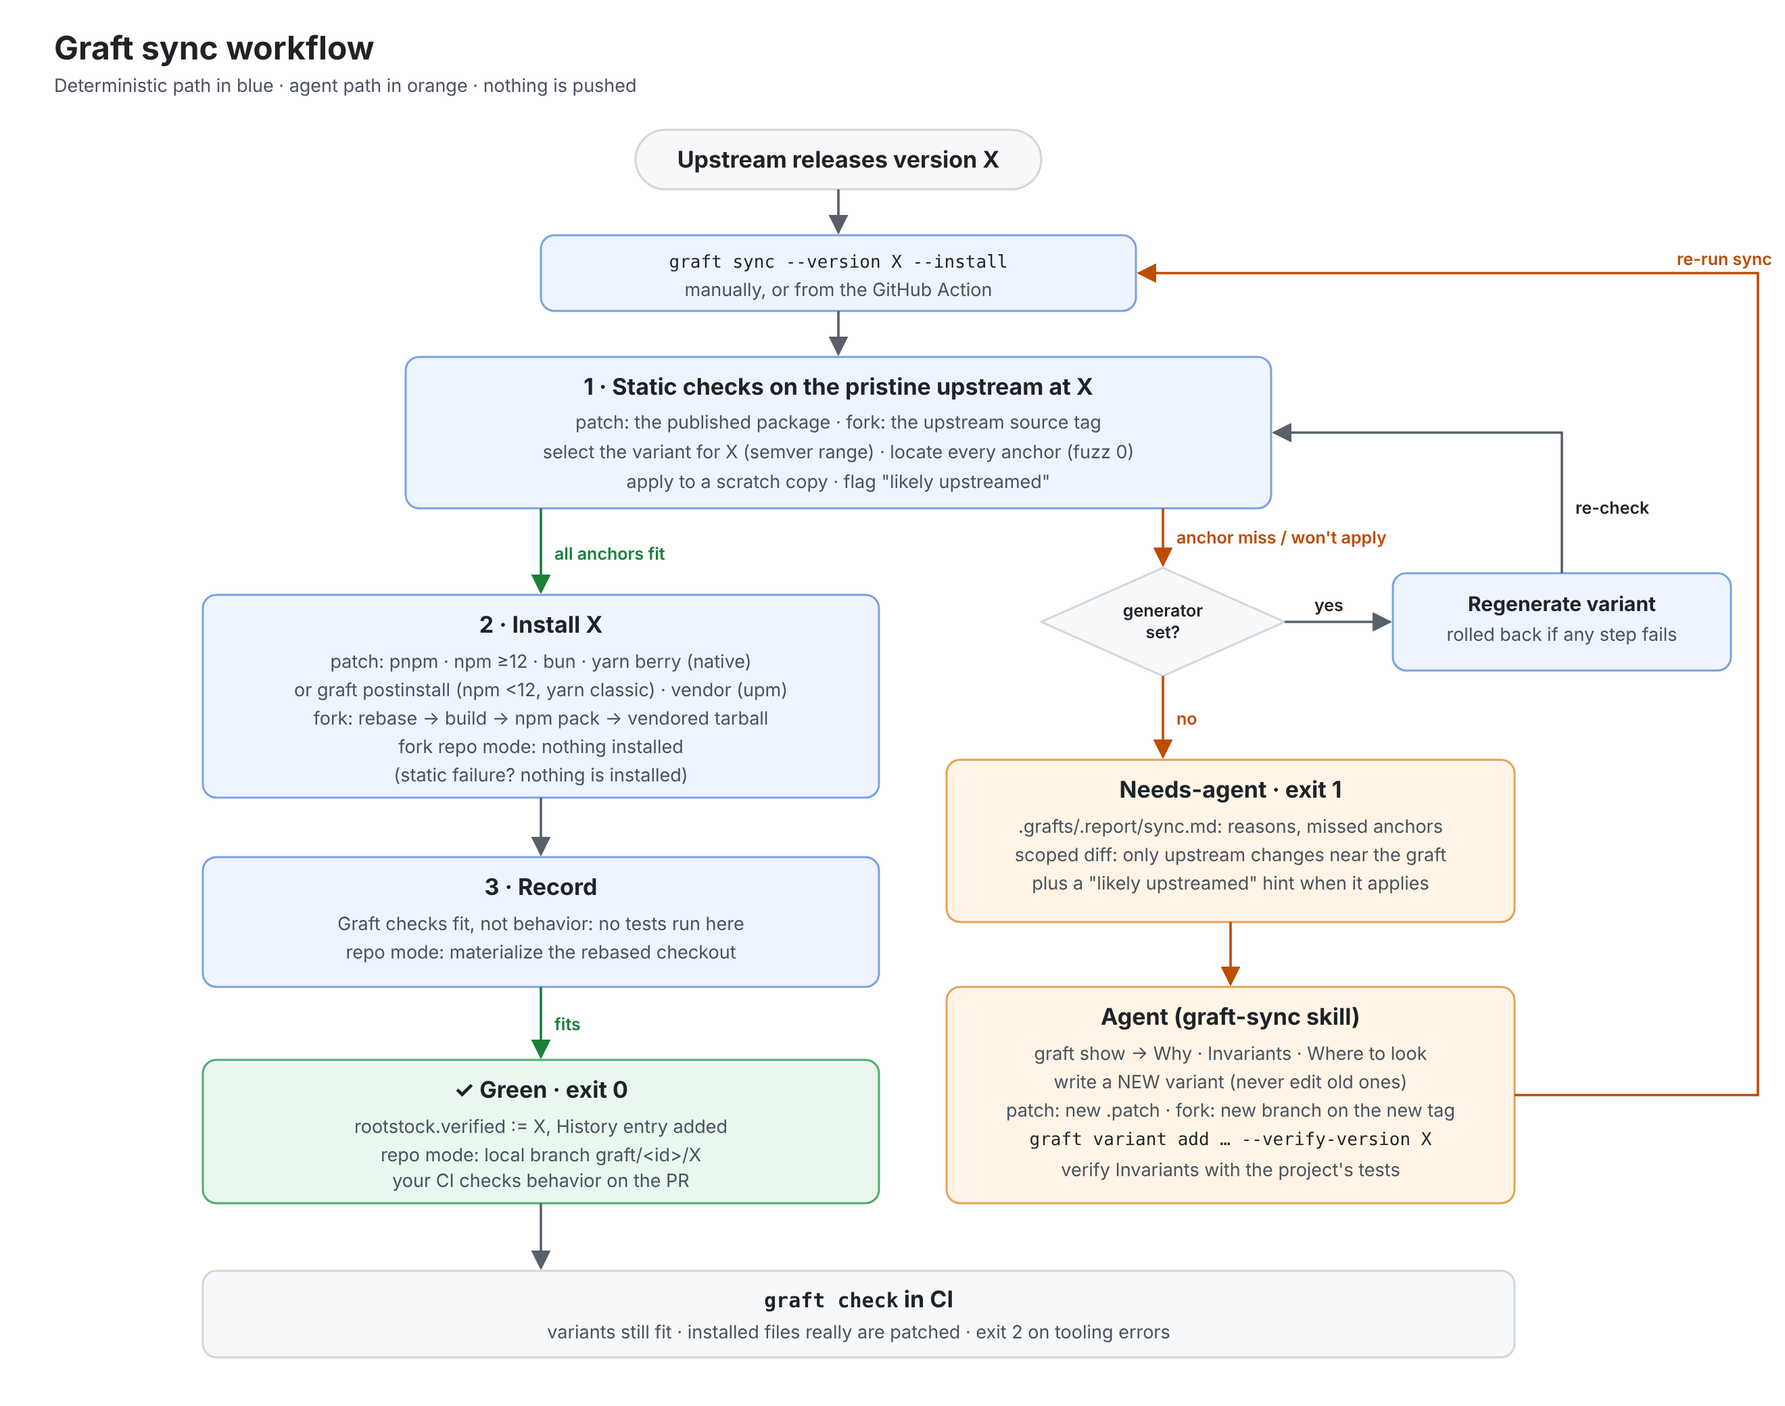
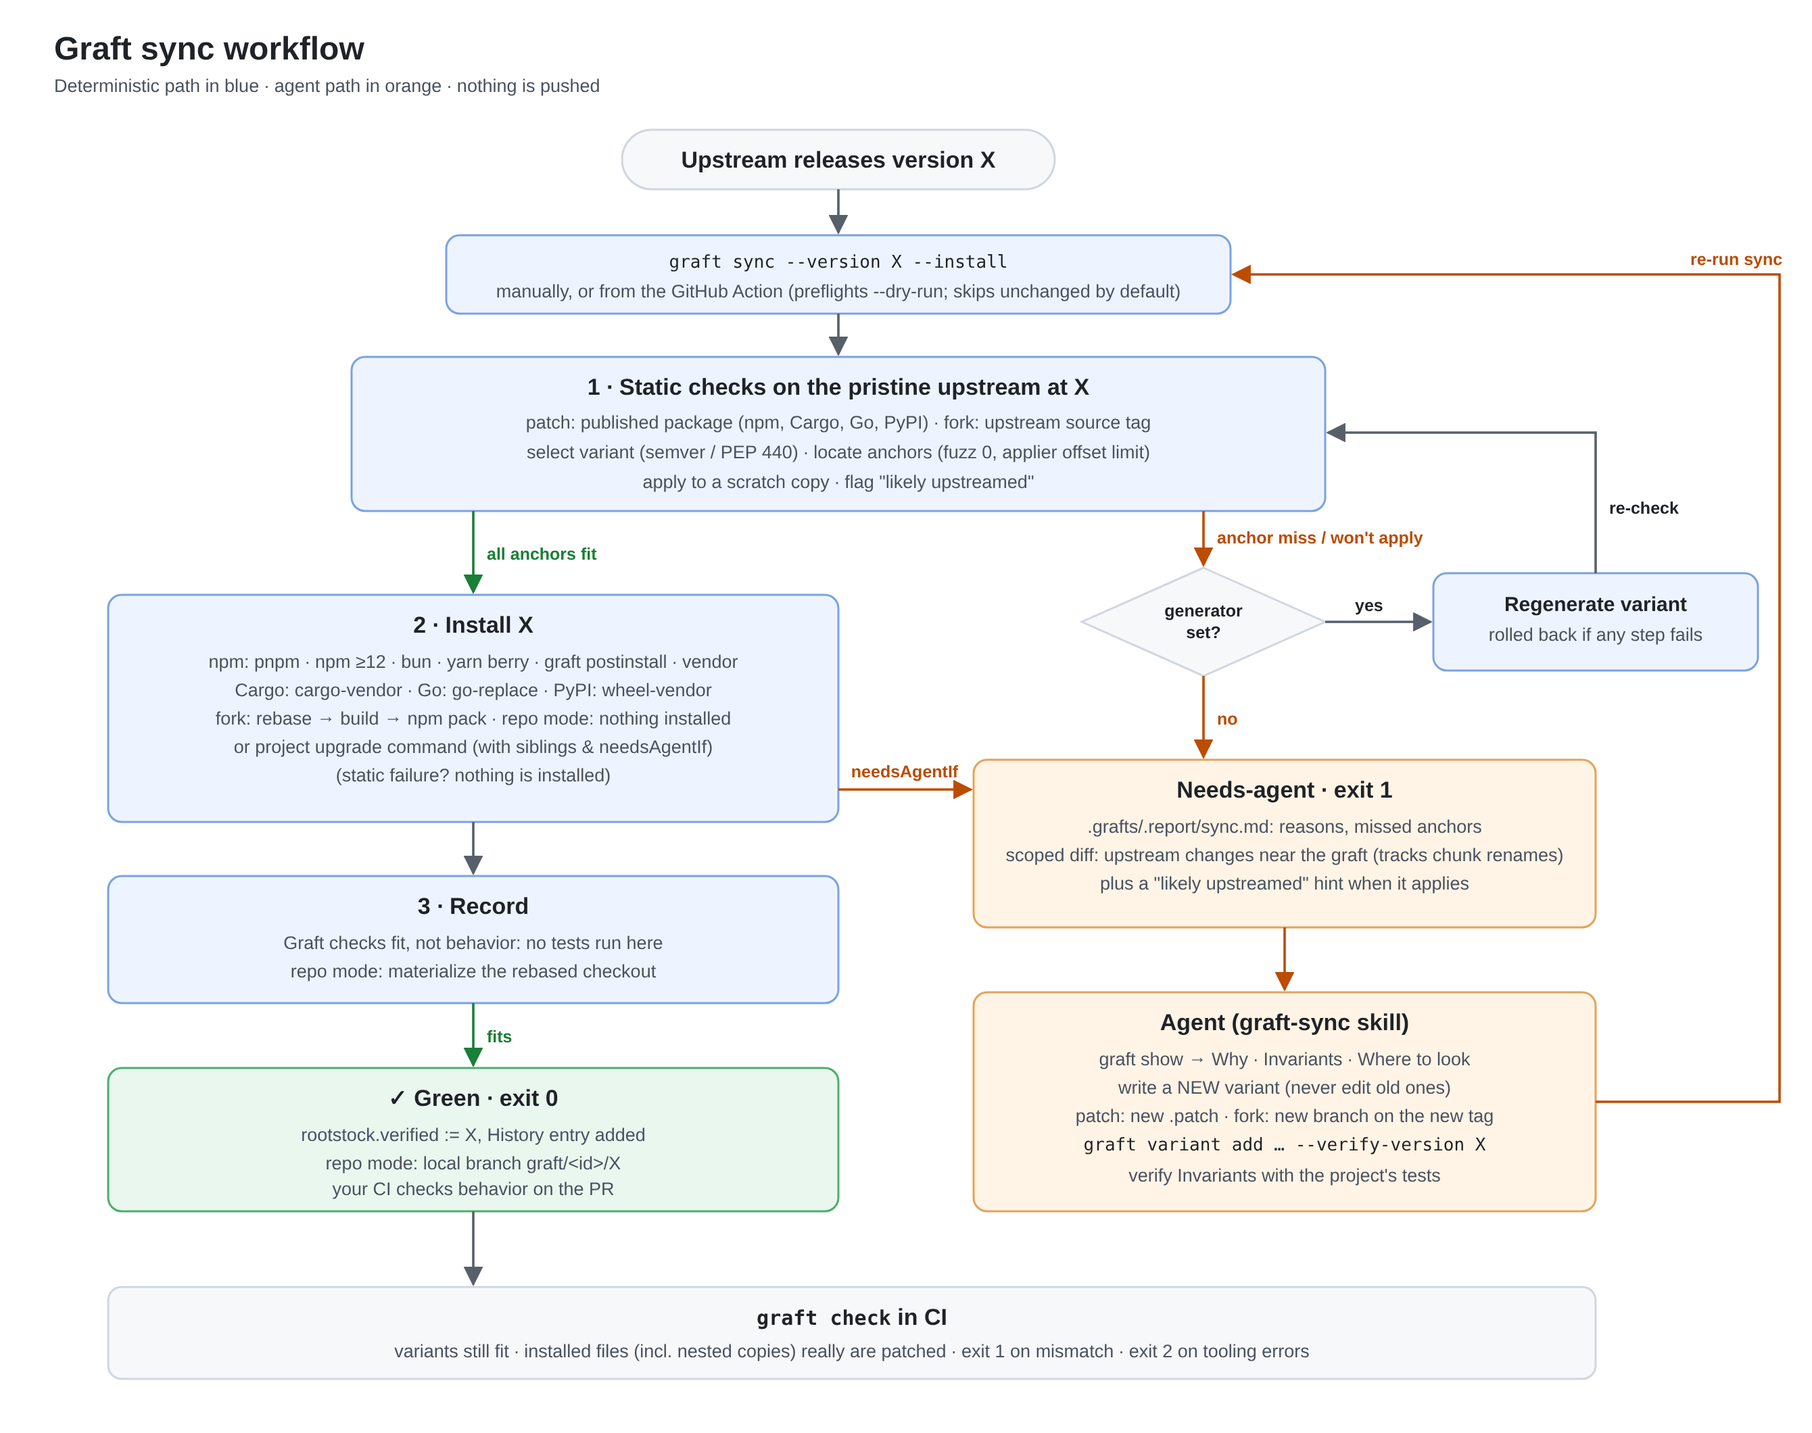
docs: update workflow diagram and align README version references to 0.3.2
- Refresh `docs/workflow.html` and re-render `docs/workflow.png` at 2× to
  reflect multi-ecosystem support (npm, Cargo, Go, PyPI; PEP 440 ranges),
  applier hunk offset limits, custom `upgrade` commands with siblings and
  `needsAgentIf` hand-off, the Action's `--dry-run` / `on-unchanged: skip`
  preflight, hashed chunk rename diffs, and nested-copy verification in
  `graft check`.
- Update `@v0.2.9` / `@0.2.9` examples in `README.md` and
  `packages/action/README.md` to `v0.3.2` / `0.3.2`, update the Action loop
  summary in `README.md` for `on-unchanged: skip`, and drop the stale
  pre-0.1.0 first-publish note.

Verified:
- Visually inspected rendered `docs/workflow.png` (2680×2120, 2×).
- `tools/package-readme` tests (7/7), `pnpm lint`, and `pnpm format:check`.

diff --git a/docs/workflow.html b/docs/workflow.html
@@ -7,7 +7,7 @@ svg text{fill:#1f2328}
 .m{font-family:ui-monospace,SFMono-Regular,Menlo,monospace;font-size:13px}
 .lbl{font-size:12.5px;font-weight:600}
 </style></head><body>
-<svg id="d" xmlns="http://www.w3.org/2000/svg" width="1320" height="1040" viewBox="0 0 1320 1040">
+<svg id="d" xmlns="http://www.w3.org/2000/svg" width="1340" height="1060" viewBox="0 0 1340 1060">
 <defs>
   <marker id="a" viewBox="0 0 10 10" refX="9" refY="5" markerWidth="8" markerHeight="8" orient="auto-start-reverse"><path d="M0,0 L10,5 L0,10 z" fill="#57606a"/></marker>
   <marker id="ar" viewBox="0 0 10 10" refX="9" refY="5" markerWidth="8" markerHeight="8" orient="auto-start-reverse"><path d="M0,0 L10,5 L0,10 z" fill="#bc4c00"/></marker>
@@ -27,81 +27,86 @@ svg text{fill:#1f2328}
 <text x="40" y="68" class="s">Deterministic path in blue · agent path in orange · nothing is pushed</text>
 
 <!-- start -->
-<rect x="470" y="96" width="300" height="44" rx="22" class="box"/>
+<rect x="460" y="96" width="320" height="44" rx="22" class="box"/>
 <text x="620" y="124" text-anchor="middle" class="t">Upstream releases version X</text>
 <path d="M620 140 V172" class="ln" marker-end="url(#a)"/>
-<rect x="400" y="174" width="440" height="56" rx="10" class="det"/>
+<rect x="330" y="174" width="580" height="58" rx="10" class="det"/>
 <text x="620" y="198" text-anchor="middle" class="m">graft sync --version X --install</text>
-<text x="620" y="219" text-anchor="middle" class="s">manually, or from the GitHub Action</text>
-<path d="M620 230 V262" class="ln" marker-end="url(#a)"/>
+<text x="620" y="220" text-anchor="middle" class="s">manually, or from the GitHub Action (preflights --dry-run; skips unchanged by default)</text>
+<path d="M620 232 V262" class="ln" marker-end="url(#a)"/>
 
 <!-- static checks -->
-<rect x="300" y="264" width="640" height="112" rx="10" class="det"/>
+<rect x="260" y="264" width="720" height="114" rx="10" class="det"/>
 <text x="620" y="292" text-anchor="middle" class="t">1 · Static checks on the pristine upstream at X</text>
-<text x="620" y="317" text-anchor="middle" class="s">patch: the published package · fork: the upstream source tag</text>
-<text x="620" y="339" text-anchor="middle" class="s">select the variant for X (semver range) · locate every anchor (fuzz 0)</text>
+<text x="620" y="317" text-anchor="middle" class="s">patch: published package (npm, Cargo, Go, PyPI) · fork: upstream source tag</text>
+<text x="620" y="339" text-anchor="middle" class="s">select variant (semver / PEP 440) · locate anchors (fuzz 0, applier offset limit)</text>
 <text x="620" y="361" text-anchor="middle" class="s">apply to a scratch copy · flag "likely upstreamed"</text>
 
 <!-- left column -->
-<path d="M400 376 V438" class="lg" marker-end="url(#ag)"/>
-<text x="410" y="414" class="lbl" style="fill:#1a7f37">all anchors fit</text>
-<rect x="150" y="440" width="500" height="150" rx="10" class="det"/>
-<text x="400" y="468" text-anchor="middle" class="t">2 · Install X</text>
-<text x="400" y="494" text-anchor="middle" class="s">patch: pnpm · npm ≥12 · bun · yarn berry (native)</text>
-<text x="400" y="515" text-anchor="middle" class="s">or graft postinstall (npm &lt;12, yarn classic) · vendor (upm)</text>
-<text x="400" y="536" text-anchor="middle" class="s">fork: rebase → build → npm pack → vendored tarball</text>
-<text x="400" y="557" text-anchor="middle" class="s">fork repo mode: nothing installed</text>
-<text x="400" y="578" text-anchor="middle" class="s">(static failure? nothing is installed)</text>
-<path d="M400 590 V632" class="ln" marker-end="url(#a)"/>
-<rect x="150" y="634" width="500" height="96" rx="10" class="det"/>
-<text x="400" y="662" text-anchor="middle" class="t">3 · Record</text>
-<text x="400" y="688" text-anchor="middle" class="s">Graft checks fit, not behavior: no tests run here</text>
-<text x="400" y="709" text-anchor="middle" class="s">repo mode: materialize the rebased checkout</text>
-<path d="M400 730 V782" class="lg" marker-end="url(#ag)"/>
-<text x="410" y="762" class="lbl" style="fill:#1a7f37">fits</text>
-<rect x="150" y="784" width="500" height="106" rx="10" class="ok"/>
-<text x="400" y="812" text-anchor="middle" class="t">✓ Green · exit 0</text>
-<text x="400" y="838" text-anchor="middle" class="s">rootstock.verified := X, History entry added</text>
-<text x="400" y="859" text-anchor="middle" class="s">repo mode: local branch graft/&lt;id&gt;/X</text>
-<text x="400" y="878" text-anchor="middle" class="s">your CI checks behavior on the PR</text>
+<path d="M350 378 V438" class="lg" marker-end="url(#ag)"/>
+<text x="360" y="414" class="lbl" style="fill:#1a7f37">all anchors fit</text>
+<rect x="80" y="440" width="540" height="168" rx="10" class="det"/>
+<text x="350" y="468" text-anchor="middle" class="t">2 · Install X</text>
+<text x="350" y="494" text-anchor="middle" class="s">npm: pnpm · npm ≥12 · bun · yarn berry · graft postinstall · vendor</text>
+<text x="350" y="515" text-anchor="middle" class="s">Cargo: cargo-vendor · Go: go-replace · PyPI: wheel-vendor</text>
+<text x="350" y="536" text-anchor="middle" class="s">fork: rebase → build → npm pack · repo mode: nothing installed</text>
+<text x="350" y="557" text-anchor="middle" class="s">or project upgrade command (with siblings &amp; needsAgentIf)</text>
+<text x="350" y="578" text-anchor="middle" class="s">(static failure? nothing is installed)</text>
+
+<!-- needsAgentIf handoff from Install X to Needs-agent -->
+<path d="M620 584 H718" class="lr" marker-end="url(#ar)"/>
+<text x="669" y="575" text-anchor="middle" class="lbl" style="fill:#bc4c00">needsAgentIf</text>
+
+<path d="M350 608 V646" class="ln" marker-end="url(#a)"/>
+<rect x="80" y="648" width="540" height="94" rx="10" class="det"/>
+<text x="350" y="676" text-anchor="middle" class="t">3 · Record</text>
+<text x="350" y="702" text-anchor="middle" class="s">Graft checks fit, not behavior: no tests run here</text>
+<text x="350" y="723" text-anchor="middle" class="s">repo mode: materialize the rebased checkout</text>
+<path d="M350 742 V788" class="lg" marker-end="url(#ag)"/>
+<text x="360" y="771" class="lbl" style="fill:#1a7f37">fits</text>
+<rect x="80" y="790" width="540" height="106" rx="10" class="ok"/>
+<text x="350" y="818" text-anchor="middle" class="t">✓ Green · exit 0</text>
+<text x="350" y="844" text-anchor="middle" class="s">rootstock.verified := X, History entry added</text>
+<text x="350" y="865" text-anchor="middle" class="s">repo mode: local branch graft/&lt;id&gt;/X</text>
+<text x="350" y="884" text-anchor="middle" class="s">your CI checks behavior on the PR</text>
 
 <!-- right column -->
-<path d="M860 376 V418" class="lr" marker-end="url(#ar)"/>
-<text x="870" y="402" class="lbl" style="fill:#bc4c00">anchor miss / won't apply</text>
-<polygon points="860,420 950,460 860,500 770,460" class="box"/>
-<text x="860" y="456" text-anchor="middle" class="lbl">generator</text>
-<text x="860" y="472" text-anchor="middle" class="lbl">set?</text>
-<path d="M950 460 H1028" class="ln" marker-end="url(#a)"/>
-<text x="972" y="452" class="lbl">yes</text>
-<rect x="1030" y="424" width="250" height="72" rx="10" class="det"/>
-<text x="1155" y="452" text-anchor="middle" class="t" style="font-size:15px">Regenerate variant</text>
-<text x="1155" y="474" text-anchor="middle" class="s">rolled back if any step fails</text>
-<path d="M1155 424 V320 H942" class="ln" marker-end="url(#a)"/>
-<text x="1165" y="380" class="lbl">re-check</text>
-<path d="M860 500 V560" class="lr" marker-end="url(#ar)"/>
-<text x="870" y="536" class="lbl" style="fill:#bc4c00">no</text>
+<path d="M890 378 V418" class="lr" marker-end="url(#ar)"/>
+<text x="900" y="402" class="lbl" style="fill:#bc4c00">anchor miss / won't apply</text>
+<polygon points="890,420 980,460 890,500 800,460" class="box"/>
+<text x="890" y="456" text-anchor="middle" class="lbl">generator</text>
+<text x="890" y="472" text-anchor="middle" class="lbl">set?</text>
+<path d="M980 460 H1058" class="ln" marker-end="url(#a)"/>
+<text x="1002" y="452" class="lbl">yes</text>
+<rect x="1060" y="424" width="240" height="72" rx="10" class="det"/>
+<text x="1180" y="452" text-anchor="middle" class="t" style="font-size:15px">Regenerate variant</text>
+<text x="1180" y="474" text-anchor="middle" class="s">rolled back if any step fails</text>
+<path d="M1180 424 V320 H982" class="ln" marker-end="url(#a)"/>
+<text x="1190" y="380" class="lbl">re-check</text>
+<path d="M890 500 V560" class="lr" marker-end="url(#ar)"/>
+<text x="900" y="536" class="lbl" style="fill:#bc4c00">no</text>
 
-<rect x="700" y="562" width="420" height="120" rx="10" class="agent"/>
-<text x="910" y="590" text-anchor="middle" class="t">Needs-agent · exit 1</text>
-<text x="910" y="616" text-anchor="middle" class="s">.grafts/.report/sync.md: reasons, missed anchors</text>
-<text x="910" y="637" text-anchor="middle" class="s">scoped diff: only upstream changes near the graft</text>
-<text x="910" y="658" text-anchor="middle" class="s">plus a "likely upstreamed" hint when it applies</text>
-<path d="M910 682 V728" class="lr" marker-end="url(#ar)"/>
+<rect x="720" y="562" width="460" height="124" rx="10" class="agent"/>
+<text x="950" y="590" text-anchor="middle" class="t">Needs-agent · exit 1</text>
+<text x="950" y="616" text-anchor="middle" class="s">.grafts/.report/sync.md: reasons, missed anchors</text>
+<text x="950" y="637" text-anchor="middle" class="s">scoped diff: upstream changes near the graft (tracks chunk renames)</text>
+<text x="950" y="658" text-anchor="middle" class="s">plus a "likely upstreamed" hint when it applies</text>
+<path d="M950 686 V732" class="lr" marker-end="url(#ar)"/>
 
-<rect x="700" y="730" width="420" height="160" rx="10" class="agent"/>
-<text x="910" y="758" text-anchor="middle" class="t">Agent (graft-sync skill)</text>
-<text x="910" y="784" text-anchor="middle" class="s">graft show → Why · Invariants · Where to look</text>
-<text x="910" y="805" text-anchor="middle" class="s">write a NEW variant (never edit old ones)</text>
-<text x="910" y="826" text-anchor="middle" class="s">patch: new .patch · fork: new branch on the new tag</text>
-<text x="910" y="847" text-anchor="middle" class="m">graft variant add … --verify-version X</text>
-<text x="910" y="870" text-anchor="middle" class="s">verify Invariants with the project's tests</text>
-<path d="M1120 810 H1300 V202 H842" class="lr" marker-end="url(#ar)"/>
-<text x="1240" y="196" class="lbl" style="fill:#bc4c00">re-run sync</text>
+<rect x="720" y="734" width="460" height="162" rx="10" class="agent"/>
+<text x="950" y="762" text-anchor="middle" class="t">Agent (graft-sync skill)</text>
+<text x="950" y="788" text-anchor="middle" class="s">graft show → Why · Invariants · Where to look</text>
+<text x="950" y="809" text-anchor="middle" class="s">write a NEW variant (never edit old ones)</text>
+<text x="950" y="830" text-anchor="middle" class="s">patch: new .patch · fork: new branch on the new tag</text>
+<text x="950" y="851" text-anchor="middle" class="m">graft variant add … --verify-version X</text>
+<text x="950" y="874" text-anchor="middle" class="s">verify Invariants with the project's tests</text>
+<path d="M1180 815 H1316 V203 H912" class="lr" marker-end="url(#ar)"/>
+<text x="1250" y="196" class="lbl" style="fill:#bc4c00">re-run sync</text>
 
 <!-- CI -->
-<path d="M400 890 V938" class="ln" marker-end="url(#a)"/>
-<rect x="150" y="940" width="970" height="64" rx="10" class="box"/>
-<text x="635" y="967" text-anchor="middle" class="t"><tspan class="m" style="font-size:15px;font-weight:600">graft check</tspan> in CI</text>
-<text x="635" y="990" text-anchor="middle" class="s">variants still fit · installed files really are patched · exit 2 on tooling errors</text>
+<path d="M350 896 V950" class="ln" marker-end="url(#a)"/>
+<rect x="80" y="952" width="1100" height="68" rx="10" class="box"/>
+<text x="630" y="980" text-anchor="middle" class="t"><tspan class="m" style="font-size:15px;font-weight:600">graft check</tspan> in CI</text>
+<text x="630" y="1004" text-anchor="middle" class="s">variants still fit · installed files (incl. nested copies) really are patched · exit 1 on mismatch · exit 2 on tooling errors</text>
 </svg>
 </body></html>

diff --git a/README.md b/README.md
@@ -247,15 +247,15 @@ This repo uses it on itself: [`.claude/skills/graft-sync`](.claude/skills/graft-
 ## GitHub Action
 
 [`packages/action`](packages/action) runs the loop, from a scheduled or manually triggered workflow. It first runs `graft check` on the installed tree, and fails the job by default if any graft isn't actually applied. Then:
-1. Poll each rootstock package's npm dist-tags.
-2. Run `graft sync --install` on a branch per package@version.
+1. Poll each rootstock package's registry versions (honoring release-age cooldowns).
+2. Pre-check with `graft sync --dry-run` (skipping unchanged dependency variants by default; set `on-unchanged: pr` to upgrade them too), then run `graft sync --install` on a branch per package@version.
 3. If green, open a PR.
 4. If a graft needs an agent, run your `agent-command` (with the prompt, skill and report; the agent uses the `graft` CLI), then re-run `sync` on the agent's work. Green opens a PR; still failing opens a draft PR. With no agent, or nothing to commit, it opens an issue with the report.
 
 ```yaml
-      - uses: brandonroberts/graft/packages/action@v0.2.9   # a release tag, matching the CLI
+      - uses: brandonroberts/graft/packages/action@v0.3.2   # a release tag, matching the CLI
         with:
-          graft-command: npx -y @graftsync/cli@0.2.9          # omit if the project depends on @graftsync/cli
+          graft-command: npx -y @graftsync/cli@0.3.2          # omit if the project depends on @graftsync/cli
           tags: latest                                        # stable releases only; the default also proposes prereleases
           agent-command: ''   # optional: any agent CLI; see packages/action/README.md
 ```
@@ -263,7 +263,7 @@ This repo uses it on itself: [`.claude/skills/graft-sync`](.claude/skills/graft-
 In ordinary CI, check the grafts right after installing. It needs no action:
 
 ```yaml
-      - run: npx -y @graftsync/cli@0.2.9 check   # or: npx graft check, if the project depends on it
+      - run: npx -y @graftsync/cli@0.3.2 check   # or: npx graft check, if the project depends on it
 ```
 
 This repo runs it on itself, triggered manually ([`.github/workflows/graft-sync.yml`](.github/workflows/graft-sync.yml)). Its first real (dry) run found yaml **3.0.0-2** on `next`. That release is native ESM, so the `yaml-esm` patch correctly no longer applies, because upstream has absorbed the graft. The action routes that to a human through an issue.
@@ -518,8 +518,6 @@ Releases use [Changesets](https://github.com/changesets/changesets). All `@graft
 The CLI package ships this README: packing `@graftsync/cli` writes it into the package with its relative links pointed at the release's `v<version>` tag on GitHub, and its images at the packed commit (`tools/package-readme`), and fails on a link to a path that doesn't exist. Images can't wait for the tag: Release tags only after publishing, and npmjs.com fetches and caches README images when it first renders the package.
 
 Prerequisites (done): the `graftsync` npm organization exists, and an npm token that can publish to it is set as the `NPM_TOKEN` repository secret. Without the secret, the workflow skips the release step.
-
-The packages start at 0.1.0, which is not on npm yet, so the first manual run with no changesets publishes 0.1.0 as is.
 
 ## Roadmap
 

diff --git a/packages/action/README.md b/packages/action/README.md
@@ -35,7 +35,7 @@ In ordinary CI you don't need the action for this: run the CLI right after insta
 ```yaml
       - run: npm ci --ignore-scripts
       - run: npx graft check                        # the project depends on @graftsync/cli
-      # or, without the dependency: npx -y @graftsync/cli@0.2.9 check
+      # or, without the dependency: npx -y @graftsync/cli@0.3.2 check
 ```
 
 ## Usage
@@ -57,7 +57,7 @@ jobs:
       - uses: actions/setup-node@v7
         with: { node-version: 24 }
       - run: npm ci            # the project must depend on @graftsync/cli
-      - uses: brandonroberts/graft/packages/action@v0.2.9
+      - uses: brandonroberts/graft/packages/action@v0.3.2
         with:
           tags: latest         # only stable releases (see below)
 ```
@@ -74,9 +74,9 @@ Enable **Settings → Actions → General → Allow GitHub Actions to create and
       - uses: actions/setup-node@v7
         with: { node-version: 24 }
       - run: uv sync --locked            # or: python -m venv .venv && .venv/bin/pip install -r requirements.txt
-      - uses: brandonroberts/graft/packages/action@v0.2.9
+      - uses: brandonroberts/graft/packages/action@v0.3.2
         with:
-          graft-command: npx --yes @graftsync/cli@0.2.9   # 0.2.3 added Cargo, Go and PyPI
+          graft-command: npx --yes @graftsync/cli@0.3.2   # 0.2.3 added Cargo, Go and PyPI
 ```
 
 ## Tokens and pull requests
@@ -94,7 +94,7 @@ A **GitHub App token** (or a fine-grained PAT with contents, pull requests and i
         with:
           app-id: ${{ vars.GRAFT_APP_ID }}
           private-key: ${{ secrets.GRAFT_APP_PRIVATE_KEY }}
-      - uses: brandonroberts/graft/packages/action@v0.2.9
+      - uses: brandonroberts/graft/packages/action@v0.3.2
         with:
           github-token: ${{ steps.app-token.outputs.token }}
 ```
@@ -132,7 +132,7 @@ Each `graft sync` run shows in the job log as a collapsible group with Graft's p
 Example with Claude Code. Adjust the flags to your agent and your CLI version:
 
 ```yaml
-      - uses: brandonroberts/graft/packages/action@v0.2.9
+      - uses: brandonroberts/graft/packages/action@v0.3.2
         env:
           ANTHROPIC_API_KEY: ${{ secrets.ANTHROPIC_API_KEY }}
         with:
